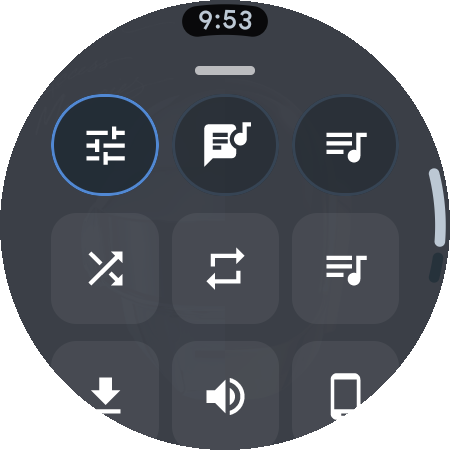
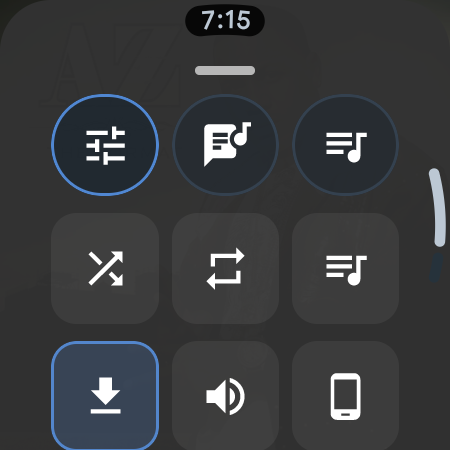
Refresh AZ gallery and record public candidate checks

diff --git a/docs/release-checklist.md b/docs/release-checklist.md
@@ -2,7 +2,7 @@
 
 Run these checks against the source revision and APKs being released. Record the device model, Android version, ABI and artifact hash with device results.
 
-Status for `0.3.0-beta.1` (version code 41), updated October 19, 2026.
+Status for `0.3.0-beta.1` (version code 41), updated October 20, 2026.
 
 ## Build and tests
 
@@ -40,17 +40,21 @@ There are no lint errors or fatal issues. Emulator input checks supplement the p
 
 Use minified APKs signed with the same key on the watch and phone.
 
-Completed checks used minified builds on a Galaxy Watch4 Classic (API 34, ARMv7) paired with a Galaxy S23 (API 34). Earlier checks used an isolated package; the public package pair has also been installed, signed in and connected successfully. It streamed music and handled a companion Pause command. The extended public-package playback and offline checks remain open below.
+Completed checks used minified builds on a Galaxy Watch4 Classic (API 34, ARMv7) paired with a Galaxy S23 (API 34). Earlier checks used an isolated package. The signed public pair has also passed sign-in, synchronization, a three-minute streaming run through track completion, consecutive one-second player updates and companion controls. A ready offline queue and its files survived an in-place signed candidate reinstall. Fresh multi-track playback with both radios disabled remains unverified: the latest attempt stopped before playback because Wi-Fi stayed enabled.
 
 - [x] Search and stream as a guest, seek forward and continue to the next queued track without a playback error.
-- [ ] Repeat sustained streaming, buffering and retry checks with a signed-in account.
+- [x] Sustain signed-in streaming for three minutes and continue into the next track without a playback error.
+- [ ] Exercise buffering and failed-stream retry with a signed-in account.
 - [x] Restart a finished finite queue with the normal watch and companion Play buttons.
 - [x] Check consecutive one-second updates on the watch and companion, including the companion slider.
 - [x] Check held drawer drags in both directions, settling, Back and tab changes on the watch.
 - [ ] Scroll long synced lyrics and long queues without accidental drawer dismissal.
+- [x] Scroll the public build's 51-track queue without dismissing the drawer or changing its order; captured excerpts cover the first entries, not the whole list.
 - [x] Confirm real bezel volume changes by one hardware step per click.
+- [x] Confirm the volume overlay appears when turning the physical bezel.
 - [ ] Check temporary volume feedback restoration and rotary list scrolling on hardware.
 - [x] Check the player and drawer with larger system text, including lyric display controls.
+- [x] Open another song from a retained search screen after scrolling song details; each new selection starts at the top.
 - [ ] Check a smaller physical round display; emulator coverage supplements this check.
 - [x] Reopen a stopped downloaded queue and play after a late seek with Wi-Fi and Bluetooth disabled.
 - [ ] Select a fresh offline queue and change between multiple downloaded tracks with both radios disabled.
@@ -68,9 +72,10 @@ Completed checks used minified builds on a Galaxy Watch4 Classic (API 34, ARMv7)
 - [ ] Check restricted/unavailable media and useful error/retry behavior.
 - [ ] Measure watch cold start, player frame behavior and memory use. The companion's three measured cold activity launches were 154–158 ms; that does not measure watch performance.
 - [x] Update the isolated test apps in place and retain their session and verified offline download.
+- [x] Update the signed public candidates in place, retain session/settings, and verify the ready offline queue and completed download files survive reinstall.
 - [ ] Install over the previous publicly supported version with its retained signing key and verify settings, library and downloads.
 
-The new fork package is a separate install from older packages. Their data is not transferred automatically. The signed public candidates install alongside the original apps; an in-place public-package update with persisted downloads still needs verification.
+The new fork package is a separate install from older packages. Their data is not transferred automatically. Candidate-to-candidate update checks used the retained signing key and version code 41; they do not replace testing upgrades from a published predecessor when one exists.
 
 ## Publication
 

diff --git a/asset/readme/current/README.md b/asset/readme/current/README.md
@@ -1,14 +1,21 @@
 # App screenshots
 
-Captured October 19, 2026 from `0.3.0-beta.1` release builds on a Galaxy Watch4 Classic and Galaxy S23, both running Android 14.
+Captured October 20, 2026 from `0.3.0-beta.1` release builds on a Galaxy Watch4 Classic and Galaxy S23, both running Android 14.
 
-- `watch-player.png`: music playing on the watch.
-- `watch-controls.png`: the player drawer's playback controls.
-- `companion-player.png`: the companion following the watch's active player.
-- `companion-offline.png`: playback controls and offline queue preparation.
+The player shows **The Format by AZ**. These are real app screens from the matching, signed watch and companion builds.
 
-These show a real playback session. The offline panel offers to download the current queue; it does not show a completed download.
+| File | View | Capture |
+| --- | --- | --- |
+| `watch-player.png` | Watch player | Standard screenshot, 450 × 450 |
+| `watch-controls.png` | Player controls | Standard screenshot, 450 × 450 |
+| `watch-queue.png` | Current queue entry | Standard screenshot, 450 × 450 |
+| `watch-discover.png` | Discover | Standard screenshot, 450 × 450 |
+| `watch-downloads.png` | Ready offline queue | Standard screenshot, 450 × 450 |
+| `companion-player.png` | Phone player | Standard screenshot, 1080 × 2340 |
+| `companion-offline.png` | Completed offline queue | Standard screenshot, 1080 × 2340 |
+| `watch-details-scroll.png` | Song details excerpt | Scrolling watch capture, 450 × 821 |
+| `watch-queue-scroll.png` | Queue excerpt | Scrolling watch capture, 450 × 815 |
 
-Captured using [WearCapture](https://github.com/Rahyan/WearCapture). Watch images use its circular display mask; phone images retain the full screenshot. The tool's scrolling capture was also used to inspect the watch's Downloads page.
+Standard screenshots were taken with Android's ADB screenshot command. The two scrolling watch images were stitched with [WearCapture](https://github.com/Rahyan/WearCapture). They show short sections of the pages. Phone images are normal screenshots.
 
-When refreshing the gallery, use matching builds on the watch and phone, capture the current UI, and review the images for account details before adding them here.
+The offline panel shows a queue whose files have finished downloading on the watch.

diff --git a/README.md b/README.md
@@ -27,15 +27,28 @@ This fork uses its own package name, `io.github.rahyan.simpmusicwear`, and can b
 
 ## Screenshots
 
-| Watch player | Player controls |
-| --- | --- |
-| <img src="asset/readme/current/watch-player.png" alt="Watch playing Instant Crush" width="240"> | <img src="asset/readme/current/watch-controls.png" alt="Watch player drawer controls" width="240"> |
+| Player | Controls | Queue |
+| --- | --- | --- |
+| <img src="asset/readme/current/watch-player.png" alt="The Format by AZ playing on the watch" width="240"> | <img src="asset/readme/current/watch-controls.png" alt="Watch player controls" width="240"> | <img src="asset/readme/current/watch-queue.png" alt="The watch queue with The Format selected" width="240"> |
 
-| Companion player | Playback and offline controls |
+| Discover | Offline music |
 | --- | --- |
-| <img src="asset/readme/current/companion-player.png" alt="Companion player" width="260"> | <img src="asset/readme/current/companion-offline.png" alt="Companion offline queue panel" width="260"> |
+| <img src="asset/readme/current/watch-discover.png" alt="Discover on the watch" width="240"> | <img src="asset/readme/current/watch-downloads.png" alt="A ready offline queue on the watch" width="240"> |
 
-Captured on a Galaxy Watch4 Classic and Galaxy S23. Watch screenshots captured with [WearCapture](https://github.com/Rahyan/WearCapture). [Capture details](asset/readme/current/README.md).
+| Companion player | Offline queue |
+| --- | --- |
+| <img src="asset/readme/current/companion-player.png" alt="The companion following The Format by AZ" width="260"> | <img src="asset/readme/current/companion-offline.png" alt="The companion showing a completed offline queue" width="260"> |
+
+<details>
+<summary>Song details and more of the watch queue</summary>
+
+| Song details | Queue |
+| --- | --- |
+| <img src="asset/readme/current/watch-details-scroll.png" alt="A scrolling view of song details for The Format by AZ" width="280"> | <img src="asset/readme/current/watch-queue-scroll.png" alt="A scrolling view of the watch queue" width="280"> |
+
+</details>
+
+Captured on a Galaxy Watch4 Classic and Galaxy S23. The two scrolling watch views use [WearCapture](https://github.com/Rahyan/WearCapture). [Capture details](asset/readme/current/README.md).
 
 ## Install and sign in
 

diff --git a/docs/releases/0.3.0-beta.1.md b/docs/releases/0.3.0-beta.1.md
@@ -18,6 +18,7 @@ SimpMusic for Wear OS, with standalone watch playback and an Android companion f
 - Reject stale remote commands when the current track or queue has changed.
 - Preserve watch downloads, history and local library changes during phone synchronization.
 - Update the companion's playback time and seek slider between watch updates.
+- Open song details at the top when selecting another track from search or the library.
 - Reject incomplete file transfers instead of reporting them as finished.
 - Improve phone-initiated playback when the watch app is closed, and allow the media service to reconnect after becoming idle.
 - Reduce startup work and background overhead from tiles and complications.

diff --git a/docs/upstream-compatibility.md b/docs/upstream-compatibility.md
@@ -2,6 +2,8 @@
 
 Reviewed October 18, 2026.
 
+Application refs rechecked October 20: main and dev still match the revisions below.
+
 This fork keeps SimpMusic's Android codebase for the Wear app, the small companion and the optional full phone app. Upstream now uses a multiplatform app and a separate core repository. Keeping up means reviewing both repositories and adapting changes to the Android interfaces used here.
 
 The fork is not fully merged with upstream. The table below records what was compared, and the next section records what was actually brought over.
